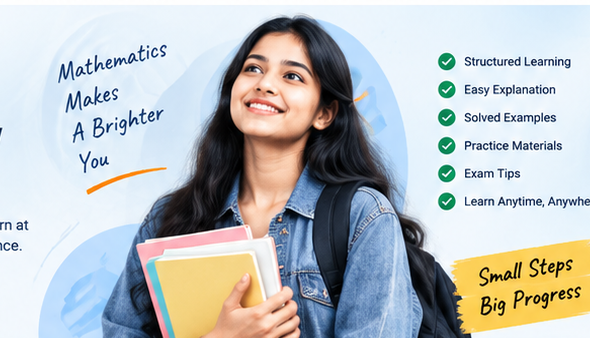
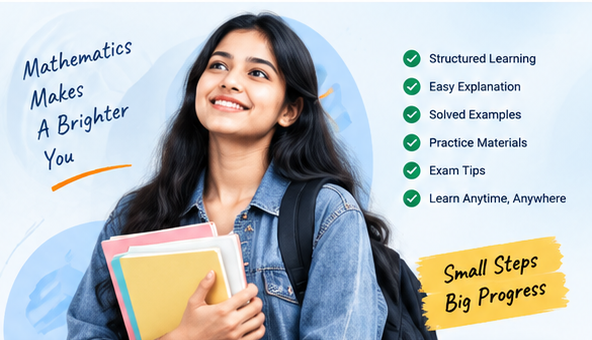
Final Settlem Academy homepage

diff --git a/index.html b/index.html
@@ -37,8 +37,8 @@ nav{height:73px;background:#fff;border-bottom:1px solid #e6eef7;position:sticky;
 
 /* HERO */
 .hero{background:linear-gradient(105deg,#eef8ff 0%,#f9fcff 62%,#eaf6ff 100%);overflow:hidden}
-.hero-inner{min-height:332px;display:grid;grid-template-columns:47% 53%;position:relative}
-.hero-copy{padding:29px 0 22px;position:relative;z-index:2}
+.hero-inner{min-height:340px;display:grid;grid-template-columns:47% 53%;position:relative}
+.hero-copy{padding:29px 0 22px;position:relative;z-index:3;max-width:680px}
 .kicker{font-size:14px;letter-spacing:1.7px;font-weight:900;color:#0754a8}
 .hero h1{font-size:45px;line-height:1.03;letter-spacing:-1.7px;margin:10px 0 10px;font-weight:900}
 .hero h1 .orange{color:var(--orange)}
@@ -49,7 +49,7 @@ nav{height:73px;background:#fff;border-bottom:1px solid #e6eef7;position:sticky;
 .btn{display:inline-flex;align-items:center;justify-content:center;padding:12px 20px;border-radius:9px;font-size:14px;font-weight:800}
 .btn-primary{background:#063c99;color:white}
 .btn-light{background:white;color:#073a8e;box-shadow:0 4px 16px rgba(35,85,140,.08)}
-.hero-art{position:absolute;right:-18px;bottom:0;width:61%;height:100%;object-fit:cover;object-position:left center}
+.hero-art{position:absolute;right:0;bottom:0;height:100%;width:auto;max-width:53%;object-fit:contain;object-position:right bottom;z-index:1}
 .checks{display:none!important}
 
 
@@ -122,7 +122,7 @@ footer{margin-top:10px;background:#061e45;color:white;padding:25px 0 16px}
  .top-right{display:none}.nav-inner{gap:10px}.logo{width:220px}
  .links,.nav-actions .search{display:none}.menu{display:block;margin-left:auto}
  .hero-inner{display:block;min-height:560px}.hero-copy{padding-bottom:0}
- .hero-art{width:100%;height:360px;right:0;bottom:0;object-position:center}
+ .hero-art{width:100%;max-width:none;height:300px;right:0;bottom:0;object-fit:contain;object-position:center bottom}
  .checks{top:auto;bottom:22px;right:12px}
  .features{grid-template-columns:repeat(3,1fr);gap:8px}
  .feature:nth-child(3){border:0}.feature:nth-child(n+4){margin-top:8px}
